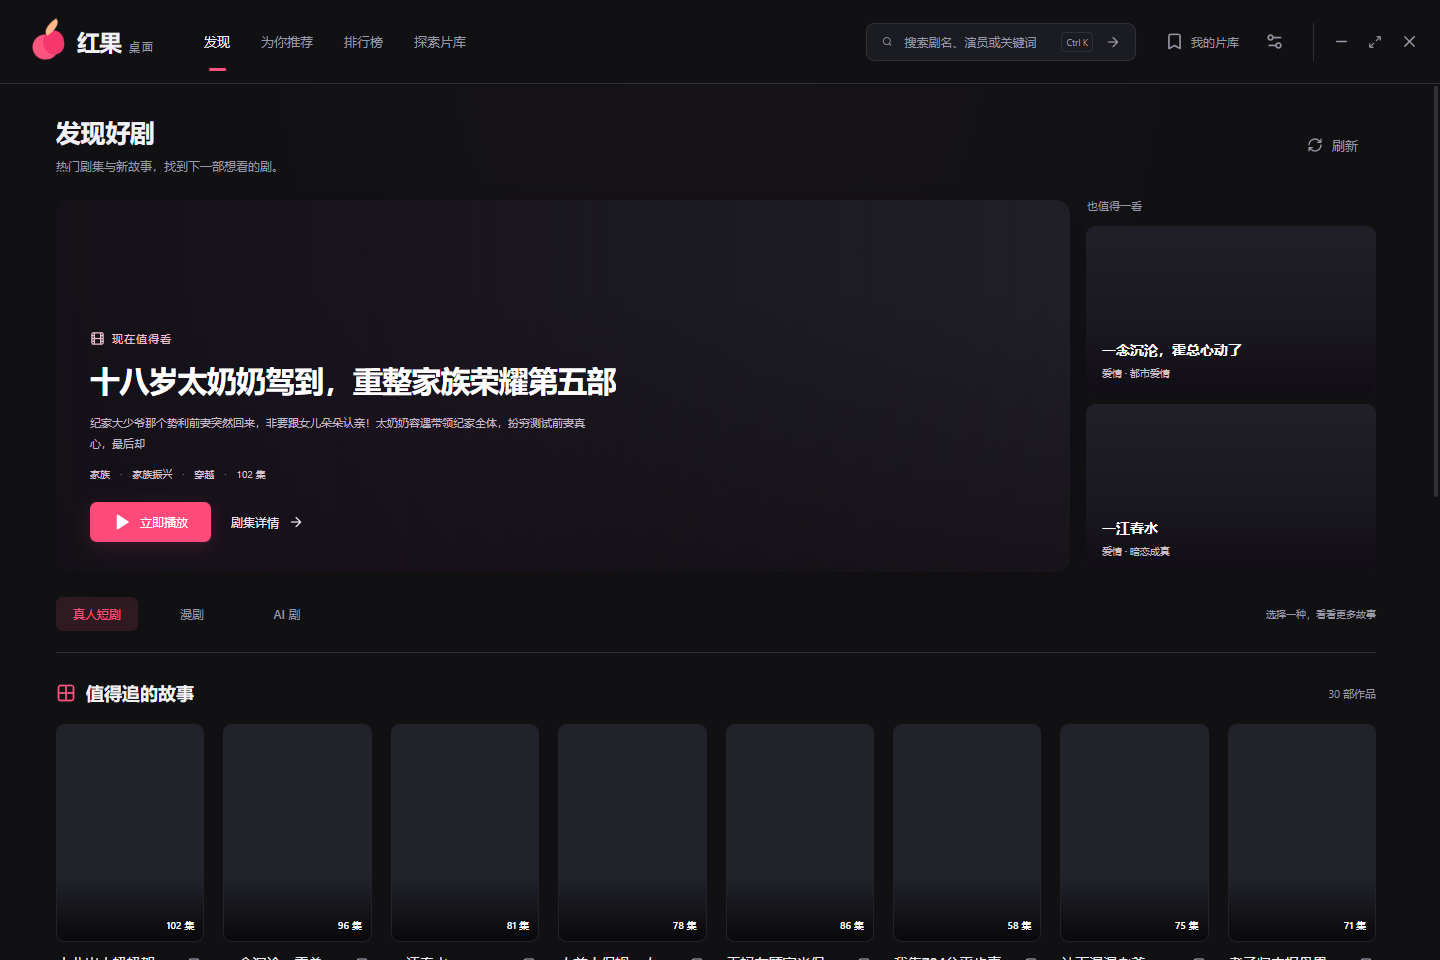
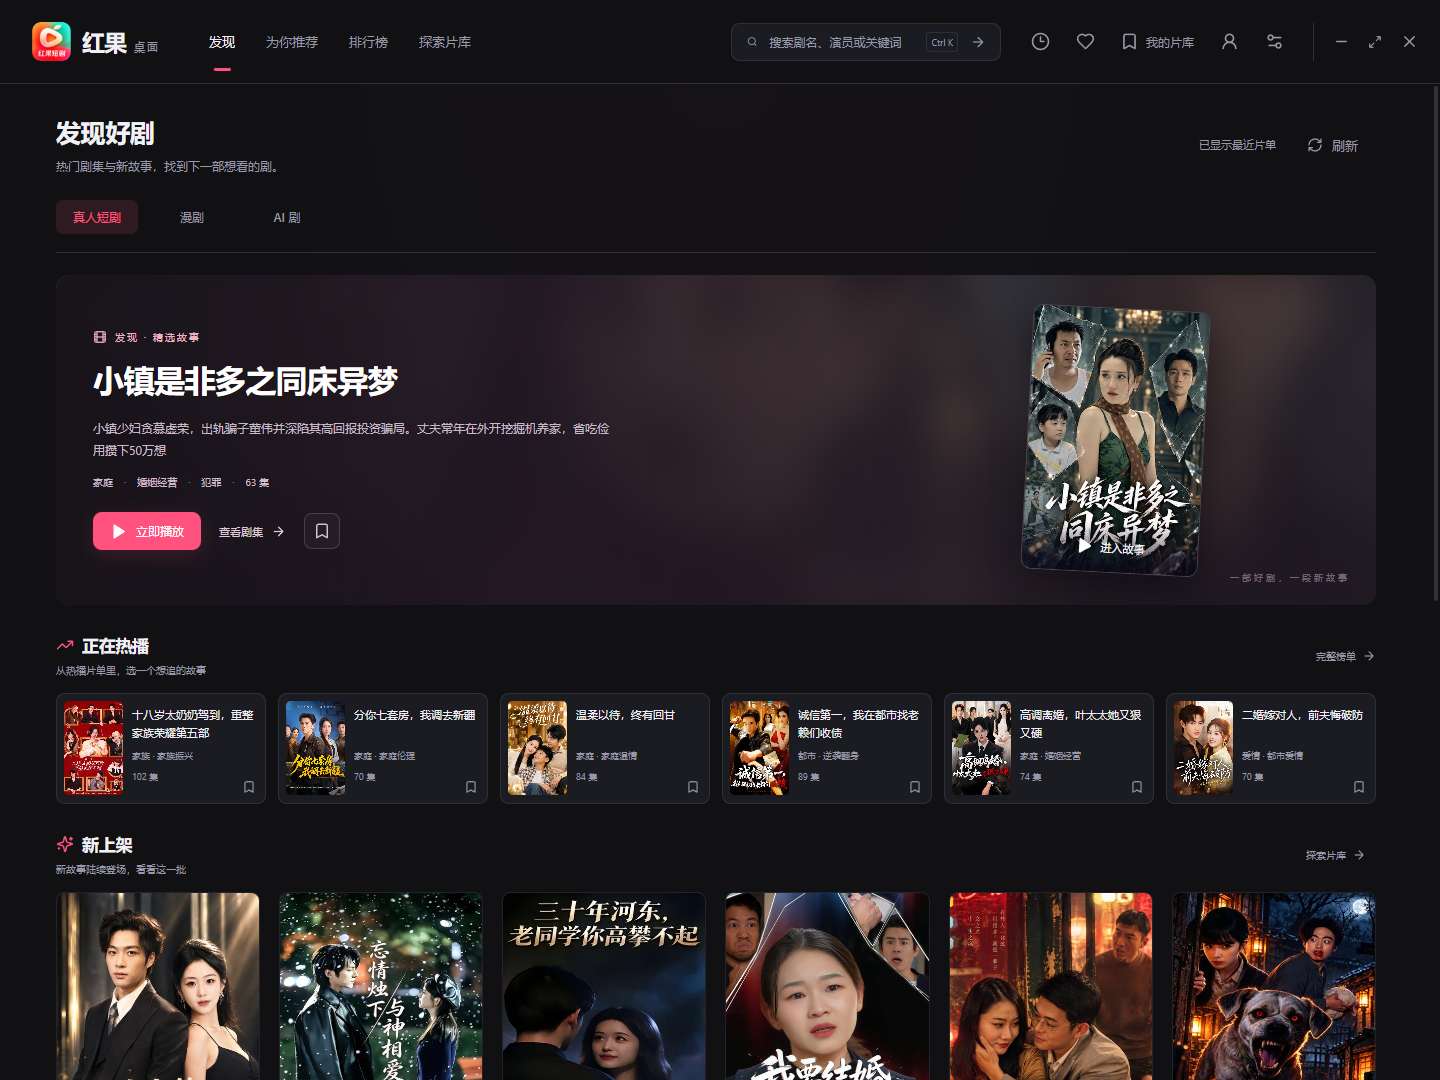
docs: add complete app screenshots and download links

diff --git a/README.md b/README.md
@@ -1,8 +1,24 @@
 # 红果桌面
 
-一个从源码构建的 Windows 短剧客户端。界面采用独立设计：顶部导航、全宽内容、按需打开的右侧片库抽屉、真实海报主视觉与炭黑莓红主题，并提供完整的浅色与系统主题。
+在电脑大屏上看短剧：精选找剧、1080P 播放、实时搜索与多季连播。支持真人短剧、漫剧和 AI 剧，提供深色、浅色与系统主题。
 
-新客户端由 **Electron + React + TypeScript** 和独立 Python 内容服务组成。它不运行旧客户端的 EXE 或 `server.py`，也不再修改旧应用的内嵌前端。
+**[下载 Windows 安装包](https://github.com/dddmiku/hongguo-desktop/releases/latest)** · [使用与安装](#安装与使用) · [问题反馈](https://github.com/dddmiku/hongguo-desktop/issues) · [电视版](https://github.com/dddmiku/hongguo-tv)
+
+## 界面预览
+
+精选首页，把热播、新上架和真实海报放在一起，打开就能挑剧。
+
+[![精选发现首页](docs/screenshots/home.png)](docs/screenshots/home.png)
+
+<table>
+  <tr>
+    <td width="33%" align="center"><a href="docs/screenshots/playback.webp"><img src="docs/screenshots/playback.webp" alt="1080P 播放、弹幕与选集" width="300"></a><br><strong>1080P 播放与弹幕</strong><br>画质、倍速、选集随手切换</td>
+    <td width="33%" align="center"><a href="docs/screenshots/search.webp"><img src="docs/screenshots/search.webp" alt="输入剧名即时显示搜索建议与海报" width="300"></a><br><strong>边输入，边找剧</strong><br>实时建议，直接打开剧集</td>
+    <td width="33%" align="center"><a href="docs/screenshots/seasons.webp"><img src="docs/screenshots/seasons.webp" alt="六季作品的海报、真实集数和当前季" width="300"></a><br><strong>全部季一眼看全</strong><br>查看每季集数，直接切季</td>
+  </tr>
+</table>
+
+点击图片可查看原图。
 
 ## 安装与使用
 
@@ -35,7 +51,7 @@ Windows PC 的源码、下载、更新和反馈在本仓库独立维护。Androi
 
 题材、评论和可选画质以实际片源及上游接口为准。无网络时可查看本机记录；首次播放与在线同步仍需要联网。
 
-1.4.0 增加实时搜索建议与完整搜索分页，修复国内手机签名、后续集取流与断线恢复。2026-11-12 已完成构建、覆盖安装及原剧第 54、55、70 集的 PC 1080P 实测。各项检查与覆盖边界见 [验收记录](docs/verification.md)。
+1.4.0 增加实时搜索建议与完整搜索分页，修复国内手机签名、后续集取流与断线恢复。
 
 ### 旧版用户
 
@@ -48,6 +64,8 @@ Windows PC 的源码、下载、更新和反馈在本仓库独立维护。Androi
 导入不会把旧历史加入待上传队列，也不会重写云端进度。已核验的旧 SQLite 历史表没有秒级位置，导入后从对应集的开头继续；旧 WebView 的画质、倍速和自动连播偏好采用只读 LevelDB 解析导入，无法验证的数据保留新版默认值。详见 [迁移说明](docs/migration.md)。
 
 ## 从源码构建
+
+客户端由 **Electron + React + TypeScript** 和独立 Python 内容服务组成，界面与内容服务从源码构建。
 
 环境：Windows x64、Node.js 22 或更新版本、Python 3.11 或更新版本。
 
